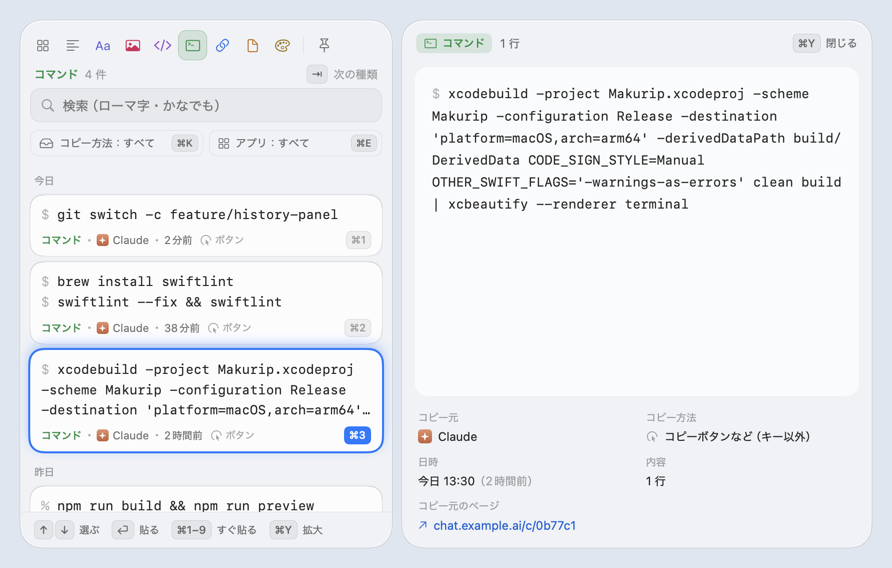
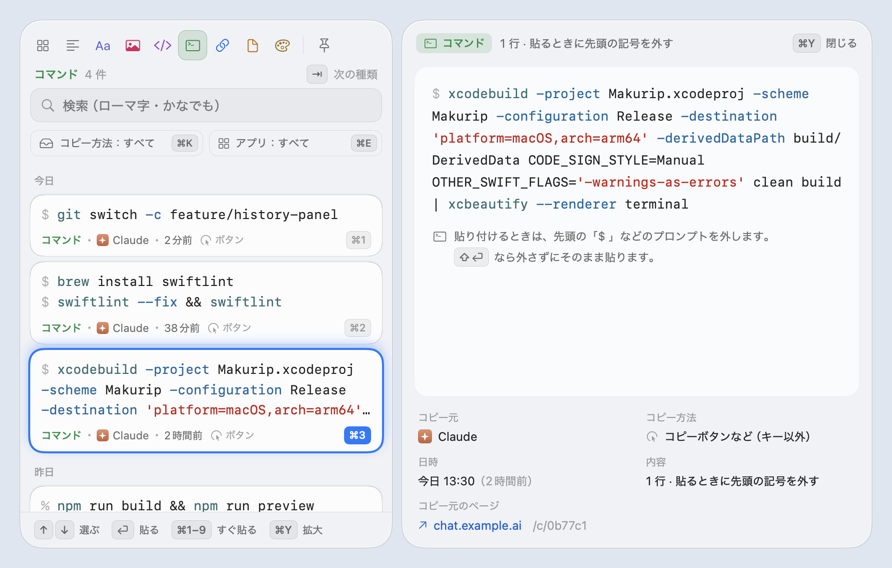
[ドキュメント] フェーズ3 の技術選定・判定の限界・公開型と、試作との比較画像・色付けの速さを記録 (#3)
色付けの方式（自前の字句解析・NSTextView）を Highlightr・tree-sitter・SwiftUI の Text と比べた理由、言語の判定と
プロンプトの外し方の限界、⇧↩ は外さないなどの決定を正本に書いた。比較画像は 1 倍に縮めた写し。

Claude-Session: https://claude.ai/code/session_01LrpCdpDCKF49u6YgNuTMUb

diff --git a/.agent/architecture.md b/.agent/architecture.md
@@ -12,7 +12,7 @@ Makurip（実行ファイル）── MakuripUI（一覧: 案 B のパネル）
 
 | ターゲット | 責務 | 依存先 |
 |---|---|---|
-| `MakuripCore` | モデル・判定（純粋関数）・ペーストボードの読み書き・監視・SQLite のストア・メタデータの書き出し・UI との約束（`HistoryPresenting` / `HistoryActions`）・日本語検索（`Search/`）・キーマップ（`Keymap/`）・パネルの位置（`Placement/`）・候補窓の流れと判断（`Candidate/`） | Foundation・AppKit（NSPasteboard だけ）・ApplicationServices（AX）・CoreGraphics（CGEvent の読み取り）・CryptoKit・libsqlite3 |
+| `MakuripCore` | モデル・判定（純粋関数）・ペーストボードの読み書き・監視・SQLite のストア・メタデータの書き出し・UI との約束（`HistoryPresenting` / `HistoryActions`）・日本語検索（`Search/`）・キーマップ（`Keymap/`）・パネルの位置（`Placement/`）・コードの言語と色付けの区間・プロンプト（`Syntax/`）・貼るときの中身（`Paste/`）・候補窓の流れと判断（`Candidate/`） | Foundation・AppKit（NSPasteboard だけ）・ApplicationServices（AX）・CoreGraphics（CGEvent の読み取り）・CryptoKit・libsqlite3 |
 | `MakuripUI` | 一覧（案 B のパネル。nonactivating な NSPanel + SwiftUI）・⌘Y のプレビュー（子ウインドウ）・候補窓（キーの焦点を取らない NSPanel）・中身の遅延読み込み。入口は `HistoryUIFactory.make(actions:)`・`CandidateUIFactory.make(actions:keymap:)` | MakuripCore |
 | `Makurip` | AppDelegate（`AppController`）・メニューバー・ホットキー（Carbon）・⌘C の監視・貼り付け（⌘V 送信）・候補窓の横取り（`KeyEventTap`）と本体側の実装（`CandidateBridge`）・起動引数・検証用の遠隔操作 | MakuripCore・MakuripUI・Carbon |
 | `MakuripDevTool` | 検証用 CLI（テストデータ・型の一覧・一般ペーストボードの退避と復元・pid 宛てのキー） | MakuripCore |
@@ -36,7 +36,8 @@ Makurip（実行ファイル）── MakuripUI（一覧: 案 B のパネル）
    パネルは nonactivating なので Makurip は前面にならず、元のアプリが前面のままキーだけを受け取る
 3. キーはパネルの窓のローカル監視 → `HistoryPanelModel.handle`（キーマップで操作を引く。日本語入力の変換中は横取りしない）
 4. Enter（⇧Enter・⌘Enter・⌘1〜9）→ UI が自分を閉じてから `HistoryActions.paste(itemID:mode:)`
-5. `ClipStore.snapshot` で全項目・全型を読み（プレーンテキストのときは文字の型だけ）、`PasteboardWriter.write` でペーストボードへ戻す
+5. `ClipStore.snapshot` で全項目・全型を読み、`PastePipeline.prepare`（純粋関数）で書き戻す中身を決めて `PasteboardWriter.write` でペーストボードへ戻す。
+   プレーンテキストのときは文字の型だけ（プロンプトは外さない）。コマンドは文字の型（UTF-8・UTF-16）だけ行頭のプロンプトを外し（`ShellPrompt`）、RTF・HTML などほかの型と並びは元のまま。保存した履歴は変えない
 6. 書いたあとの changeCount を `monitor.acknowledgeOwnWrite` に渡す（新しい履歴にしない）。`store.touch` で先頭へ移す
 7. `Paster` が `previousApp` を前面に戻し、その pid 宛てに ⌘V を送る（アクセシビリティの許可が要る）。「コピーだけ」は送らずにフォーカスだけ返す
 
@@ -50,6 +51,7 @@ Makurip（実行ファイル）── MakuripUI（一覧: 案 B のパネル）
 3. 窓（`CandidatePanelController`）は出す前に文字カーソルを AX で取り、カーソルの右に、選んだ行をカーソルの行にそろえて出す。
    位置の手がかりはそのセッションの間は固定し、選択が変わるたびに `PanelPlacement.frame(... .beside(rowOffset:))` で置き直す
 4. 仮に貼る（`.selectRange` / `.undo` のとき）: 貼る前のペーストボードを丸ごとメモリに控え、最新を書いて pid 宛てに ⌘V。
+   書く中身は一覧と同じく `PastePipeline.candidatePaste`（コマンドはプロンプトを外す。差し替えで選び直す長さも外した後の文字で数える）。
    AX で文字カーソルが進んだことを確かめ、貼った範囲を測る
 5. ↑↓（タップ → `handle` → `perform`）: 選択だけをすぐ変え、文書への反映は 1 つずつ順に行う（`drain`。連打しても最後の選択に追いつく）。
    差し替えは、貼った範囲を AX で選び直してその上に ⌘V（文字だけの中身で長さが合うとき）→ だめなら ⌘Z で 1 段戻して ⌘V。
@@ -68,7 +70,18 @@ Makurip（実行ファイル）── MakuripUI（一覧: 案 B のパネル）
 | `PanelController` | 窓（nonactivating な `KeyablePanel`）・キーのローカル監視・位置・⌘Y の子ウインドウ（`PeekPanel`）。メインメニューがないので検索欄の ⌘A/C/V/X/Z もここで送る |
 | `HistoryPanelModel` | 状態（絞り込み・選択・プレビュー・⌘E）と全操作。`handle(_:isComposing:)` がキーマップから操作を引く。単体テストはここを駆動する |
 | `HistoryPanelView` / `CardView` / `PeekView` | 試作（`~/dev/makurip-design/ui/shared/panel-b.*`・`base.css`）の寸法と色を写した SwiftUI。文字の行の高さは `CSSText` で CSS の line-height を再現 |
-| `ClipContentLoader` | サムネイル・全文・ファイル・色・リッチテキストを、見えたカードと選んだ 1 件だけ読む。画像の縮小はメインスレッドの外 |
+| `ClipContentLoader` | サムネイル・全文・ファイル・色・リッチテキストを、見えたカードと選んだ 1 件だけ読む。画像の縮小はメインスレッドの外。コードの言語・色付きのカード・プレビューの色付けの区間もここでキャッシュする |
+| `CodeStyler` / `CodeTextView` | コードとコマンドの色付け（フェーズ3）。カードと ⌘Y のコマンドは SwiftUI の Text（AttributedString）、⌘Y のコードは NSTextView（行番号は `LineNumberRuler`） |
+
+### コードの色付け（フェーズ3・#3）
+
+1. 言語: `ClipContentLoader.language(for:)` が一覧の平文（先頭 1000 文字）を `CodeLanguageDetector.detect` に渡し、項目ごとに 1 回だけ決める。
+   カード・⌘Y のプレビュー・候補窓の行（「Swift 17行」）が同じ言語を使う。コマンドはいつもシェル
+2. 区間: `SyntaxHighlighter.tokens`（純粋関数・自前の字句解析）が UTF-16 の区間と種類（キーワード・文字列・コメント・数・型・関数・属性・フラグ）を返す
+3. カード（コード 5 行・コマンド 3 行）: `CodeStyler` が NSMutableAttributedString に SwiftUI の属性の鍵で色を付け、一度に AttributedString へ変える。配色ごとにキャッシュ
+4. ⌘Y のコード: 区間を配色によらずキャッシュし、`CodeTextView`（NSTextView）に NSColor で塗って渡す。8000 文字（UTF-16）までその場で、
+   それより長いものは区間を裏のスレッドで作り、できるまでは色なしで出す。プレビューは先頭 2 万文字まで（`previewCharacterLimit`）
+5. コマンド: `ShellPrompt.analyze` で外すプロンプトの範囲を薄くし、プロンプトのある文字列ではコマンドの行（プロンプトの行と続きの行）だけを色付けする（出力の行は色なし）
 
 - 履歴は開くたびに全件のメタデータを読む（5000 件で 23 ms）。検索用の正規化（`HistoryFilter.haystack`）は開いた後に裏で作り、内容のハッシュが同じあいだ使い回す
 - 試作との見比べは `design/ui-compare/`（`make ui-compare`）
@@ -93,7 +106,7 @@ Makurip（実行ファイル）── MakuripUI（一覧: 案 B のパネル）
 - ~~フェーズ2（絞り込み）: `kind`・`copyMethod`・`source` は列として持っている。日本語検索の正規化は `preview_text` を元に別の列か索引を足す（スキーマ版を上げる）~~
 - フェーズ2（済）: 絞り込みと日本語検索はメモリの中で行う（DB の列は足していない。スキーマ版 1 のまま）。全件を読んでも 5000 件で 23 ms、温まった後の検索が 15 ms で足りるため。1 万件を大きく超える上限にするなら、正規化した列と FTS を足す
 - フェーズ2.5（候補窓・済）: 位置は `PanelPlacement.frame(... side: .beside(rowOffset:))`、手がかりは `InsertionPointLocator`。DB は変えていない（仮に貼っている間は `touch` せず、確定したときだけ先頭へ移す。回している間の並びは始めた時点のものを固定して持つ）
-- フェーズ3（プレビュー）: `ClipStore.snapshot(id:)` で全データ、`representationInfos(id:)` で型の一覧が取れる
+- フェーズ3（プレビュー・済）: DB は変えていない。言語は表示のときに一覧の平文から判定してメモリにキャッシュする（列を足すと判定を直すたびに作り直しが要るため）。コピー元のページは取り込み時の `sourceURL` をそのまま使う
 - フェーズ4（設定）: `Limits` と `HotKey` を UserDefaults か設定ファイルに保存し、`ClipStore(directory:limits:)` と `HotKeyCenter.register` に渡す
 - フェーズ5（秘密）: 判定結果を `ClipStore.setFlags(_:id:)` で `secretLikely` にする。判定は形式だけで行い、中身を外へ出さない
 - フェーズ6（AI の口）: 追加は `CapturedClip` を組み立てて `ClipStore.save`（`addedByAI` の印）。AI へは `MetadataDump` 相当の形式情報だけを返す
@@ -127,10 +140,21 @@ Makurip（実行ファイル）── MakuripUI（一覧: 案 B のパネル）
 | 変換中の判定 | AX の `AXTextInputMarkedRange`（WebKit は `AXTextInputMarkedTextMarkerRange`）→ 入力ソース（TIS）| 入力ソースだけ（日本語入力のかなモードのまま英数を打つ人では、いつも「変換中」になって候補窓が使えない）、日本語入力の候補窓が画面にあるか（未確定の文字はあっても候補窓が出ていないことが多い） |
 | 候補窓の窓 | キーの焦点を取らない nonactivating な NSPanel（`.popUpMenu`） | 一覧（案 B）の窓を使い回す（あちらは検索欄に打つので焦点を取る。焦点の扱いが逆なので分けた） |
 
+## 技術選定（フェーズ3・比べた代替）
+
+| 何を | 採用 | 比べた代替と、採らなかった理由 |
+|---|---|---|
+| コードの色付け | 自前の簡易な字句解析（`SyntaxHighlighter`。C 系は設定付きの 1 つ、シェル・HTML/XML・CSS・JSON・YAML は個別）| Highlightr（highlight.js を JavaScriptCore で動かす。外部ライブラリが 1 つ増え、起動に JS の実行環境が要り、1 回の色付けが数十 ms かかる。配色は CSS の書き換えになる）、tree-sitter（SwiftTreeSitter + 言語ごとの文法パッケージ。正確だが依存と C のソースが言語の数だけ増え、ビルドと保守が重い）。クリップボードの断片は不完全なコードも多く、構文木より字句で十分。依存 0 のまま、試作の 9 色にそのまま対応でき、1 回なめるだけで 500 行 5 ms（デバッグビルド） |
+| 言語の判定 | 形で決まるもの（コードブロックの言語名・shebang・JSON・タグ・YAML）→ 言語ごとの手がかり（正規表現と重み）の点数 | 拡張子（クリップボードにはない）、機械学習の分類器（モデルが要る・説明しにくい）。点数なら紛らわしい例をテストで固定して調整できる |
+| ⌘Y のコードの描画 | NSTextView（TextKit）+ NSRulerView の行番号 | SwiftUI の Text（色の区間が多いと組むのが極端に遅い。色付きの 600 行で 2.5 秒、1000 行で 17 秒。区間が少ないカードとコマンドはこちら）、1 行ずつの Text を LazyVStack に並べる（速いが、行をまたいで選べず、横に送ると行番号も一緒に動く）。NSTextView なら 3000 行でもパネルとプレビューの描画が約 120 ms で一定 |
+| プロンプトを外す場所 | 貼るときに書き戻す中身だけ（`PastePipeline`）。保存した履歴と RTF・HTML は変えない | 取り込みのときに外して保存する（元に戻せない・⇧↩ で元のまま貼れない）、全型を書き換える（RTF の制御語や HTML のタグを壊しうる） |
+
 ## 変更時の波及
 
 - DB スキーマを変える: `ClipStore.migrate()` に版を足し、`.agent/api.md` の「DB スキーマ」と `MetadataDump` を同時に直す
 - 種類の判定を変える: `KindClassifierTests` に入力例を足し、`.agent/conventions.md` の「判定の限界」を見直す
+- 言語の判定・色付けを変える: `CodeLanguageDetectorTests`（各言語の代表例と紛らわしい組）・`SyntaxHighlighterTests`（区間が重ならない・サロゲートペアを割らない）に足し、`make ui-compare` で試作と並べる。言語を足すときは `CodeLanguage`（名前・コードブロックの別名）と `SyntaxHighlighter` の設定の両方
+- プロンプトの外し方を変える: `ShellPromptTests`（外さない例を必ず添える）と `PastePipelineTests`（名前付きペーストボードで書いて読み直す）。候補窓の流れは `CandidateCoordinatorTests`
 - UI を差し替える: `Sources/MakuripUI/` を置き換え、`HistoryUIFactory.make(actions:)` を同じ名前で用意する。E2E（`scripts/e2e/paste.sh`）は `debugState` の `rowCount` / `query` と `-MakuripPanelScreen` を使っているので、新しい UI でも同じ鍵を返すか、スクリプトを直す（案 B のパネルは同じ鍵を返す）
 - キーを足す・変える: `KeyAction`（ID・既定のキー・説明文）に足す。`KeymapTests` の「既定のキーに重なりがない」が守る。画面のヒントはキーマップから引くので直さなくてよい。候補窓のキー（範囲 `.candidate`）は候補窓のキーどうしだけで重なりを見る
 - 候補窓の閉じ方・横取りを変える: 閉じる経路を足したら `CandidateInterceptLifetimeTests.Path` に足す（全経路でタップ・窓・時計が残らないことを確かめる）。差し替えを変えたら `CandidateCoordinatorTests`（偽の入力欄で文書が元に戻るか）

diff --git a/design/ui-compare/README.md b/design/ui-compare/README.md
@@ -2,6 +2,7 @@
 
 フェーズ2（#2）で、HTML の試作（`~/dev/makurip-design/ui/b.html`。正本）と SwiftUI のパネルを同じ状態で描き、
 横に並べて確かめた記録。フェーズ2.5（#8）で候補窓（`candidate.html`）も足した（後半の「候補窓」）。
+フェーズ3（#3）でコードの色付け・コマンドのプロンプト・コピー元のページを足した（「コードの色付け」）。
 画面ロック中でも作れる（試作はヘッドレス Chrome、SwiftUI はオフスクリーン描画）。
 
 ## 作り直し方
@@ -34,10 +35,8 @@ make ui-compare            # = design/ui-compare/shoot.sh。出力は .ui-compar
 
 ### 意図して変えたところ・範囲外のもの
 
-- **コードの色付けがない**: フェーズ3（#3）。いまは等幅で出すだけ。コマンドの先頭の「$ 」を薄くするのは試作どおり
 - **定型文のタブ・「⌘S 定型文を見る」・設定の歯車がない**: 定型文は #7、設定画面は #4。押しても何も起きない入口は置かない
 - **カードのコピー方法が「⌘C」でなく「キー」**: 取り込みでは ⌘C と ⌘X を見分けていない（詳細は「キー操作（⌘C / ⌘X）」）
-- **プレビューの見出しに言語名（Swift など）がない**: 言語の判定はフェーズ3
 - **⌘E のアプリ選択をパネルの内側に収めた**: 試作はパネルの右へはみ出すが、窓の外に出すには別の窓とフォーカスの扱いが要るため
 - **等幅の書体**: 試作の CSS は SF Mono を指定しているが、Chrome は名前で見つけられず Menlo で描いている。SwiftUI は指定どおり SF Mono（字幅が 2.6% 広い）
 - **アイコン**: 試作の線画を SF Symbols に置き換えた（リッチテキストの `textformat` は日本語の環境で「あぁ」になるので英語の字形に固定）
@@ -81,7 +80,7 @@ make ui-compare            # = design/ui-compare/shoot.sh。出力は .ui-compar
 - **位置**: カーソルの右（入らなければ左）。選んでいる行の中心をカーソルの行の中心にそろえる。画面の端では押し戻す（そのときだけ行がずれる）
 - **注記**: 確定まで貼らないとき（ターミナル・チャット・変換中・入力欄を読めない・差し替えが効かないアプリ）に、
   その理由を 1 行で出す。試作の秘密の注記（`.cd-note`）と同じ形で、色は秘密の赤でなく知らせの青
-- **言語名がない**（試作は「Python 7行」「Swift 17行」、こちらは「コード 7行」）: 言語の判定はフェーズ3（#3）
+- ~~**言語名がない**（試作は「Python 7行」「Swift 17行」、こちらは「コード 7行」）~~: #3 で言語名を出すようにした（`compare-candidate-long.png` の「Python 7行」）
 - **色の名前がない**（試作は「#0A84FF アクセント（青）」、こちらは HEX だけ）: 履歴に色の名前を持っていない
 - **画像の名前**: 履歴に画像の名前がないので、コピー元のアプリから「スクリーンショットの画像」「Safari の画像」と呼ぶ
 - **文字数**: 試作はコードポイントで数え、こちらは見た目の 1 文字（書記素）で数える。半角の「ﾃﾞ」は試作で 2 字、こちらで 1 字。
@@ -92,6 +91,52 @@ make ui-compare            # = design/ui-compare/shoot.sh。出力は .ui-compar
 ### オフスクリーン描画では分からないこと（実機で確かめる。#9）
 
 - 本物のアプリでの位置（文字カーソルの横に出るか）・素材の見え方・窓の影・クリックの当たり方
+
+## コードの色付け（#3・2026-10-31）
+
+試作の `Mk.syntax`・`Mk.cmdHTML`（`core.js`）と配色（`base.css` の `--s-*`）を、Swift の字句解析（`SyntaxHighlighter`）と
+`CodeStyler` で写した。試作側は `b-states.html` に `state=custom&kind=…&move=…&look=1`（種類で絞って n 件目を ⌘Y）を足して撮る。
+
+| 状態 | 画像 |
+|---|---|
+| コードのカードだけ（4 言語） | `images/compare-code-cards-light.png`・`images/compare-code-cards-dark.png` |
+| ⌘Y のコード: Swift（ライト）・TypeScript（ダーク）・Python（ライト・コピー元のページ付き）・シェル（ダーク） | `images/compare-peek-light.png`・`images/compare-peek-code-ts-dark.png`・`images/compare-peek-code-py-light.png`・`images/compare-peek-code-sh-dark.png` |
+| ⌘Y のコマンド（プロンプトを薄く・外す注記・コピー元のページ） | `images/compare-peek-cmd-light.png`・`images/compare-peek-cmd-dark.png` |
+| 候補窓の言語名（「Python 7行」） | `images/compare-candidate-long.png` |
+| 言語不明・1 文字・全角と絵文字・とても長い 1 行・3000 行・PS1 と出力と続き行・コピー元のページ付きの文章・コードの中の検索（試作に無い） | `images/edge-code-cards.png`・`images/edge-peek-code-unknown.png`・`images/edge-peek-code-one-char.png`・`images/edge-peek-code-cjk.png`・`images/edge-peek-code-long-line.png`・`images/edge-peek-code-3000-lines.png`・`images/edge-peek-cmd-ps1.png`・`images/edge-peek-text-source.png`・`images/edge-search-in-code.png` |
+
+### 見比べた結果
+
+キーワード（太字）・型・文字列・コメント・数・関数・属性・シェルのフラグの色、行番号の位置・線、行の高さ（12.5px × 1.65）、
+カードの 5 行の切り方に大きなずれはない。ライトとダークとも試作の値どおり。見比べで次を直した。
+
+- **端末のコピーの出力の行**: 出力の行（`Build complete!` など）までコマンドとして色が付いていた。プロンプトのある文字列では、コマンドの行（プロンプトの行と続きの行）だけを色付けするようにした（`edge-peek-cmd-ps1.png`）
+- **一覧の下の方のカードを選んだ状態**: 選んだカードが見える位置まで一覧が送られるよう、描いた後に選ぶようにした（比べ方の直し）
+- **3000 行の見出し**: プレビュー用に切った後の行数（603 行）を出していたのを、全文の行数にした。切ったことの注記も出す
+
+### 意図して変えたところ・範囲外のもの
+
+- **コピー元のページの書き方**: 試作は「題名　ドメイン」。題名は取り込んでいない（Chrome 系・Safari の型に題名が載らない）ので、「ホスト　パス」にした。クエリ（`?` の後ろ）はトークンが入りうるので出さない
+- **プロンプトの注記の文言**: 試作の「（設定で変更できます）」は設定画面（#4）がまだないので出さず、外さずに貼るキー（⇧↩。キーマップから引く）を書いた
+- **⌘Y のコードは NSTextView**: SwiftUI の Text は色の区間が多いと極端に遅い（色付きの 600 行で 2.5 秒）。行番号は横に送っても動かず、縦は本文と一緒に動く（試作の `.gutter` と同じ）。行をまたいで選べる
+- **言語が決まらないコード**: 試作は TypeScript として色を付けるが、こちらは文字列・数・`//` のコメントだけ（違う言語の色を付けないため）
+- **右端で切れる長い行**: 等幅の字幅の差（SF Mono と Menlo）で、試作より少し手前で切れる。横に送れば読める
+
+### 色付けの速さ（`images/highlight-speed.txt`）
+
+架空の Swift のコード（デバッグビルド・ほかの仕事でマシンが混んでいる状態。描画は 3 回の中央値）。プレビューは先頭 2 万文字まで。
+
+| 行数 | 文字数 | 区間 | 言語の判定 | 字句解析 | 色付きの文字列 | パネルとプレビューを描き直す |
+|---|---|---|---|---|---|---|
+| 1（基準） | 18 | 0 | 2.9 ms | 0.6 ms | 3.3 ms | 113 ms |
+| 100 | 3,319 | 340 | 2.3 ms | 1.4 ms | 0.4 ms | 123 ms |
+| 500 | 16,599 | 1,700 | 2.3 ms | 4.9 ms | 1.3 ms | 122 ms |
+| 1000 | 33,199 | 3,400 | 2.3 ms | 9.5 ms | 2.1 ms | 120 ms |
+| 3000 | 99,599 | 10,200 | 2.2 ms | 30 ms | 5.2 ms | 119 ms |
+
+描き直しは 1 行のコード（基準）とほぼ同じで、色付けの分は長さによらず 10 ms 前後。8000 文字（UTF-16）を超えるコードの区間は
+裏のスレッドで作り、できるまでは色なしで出す。一覧を開く速さは、変更前（`origin/main`）と交互に 3 回ずつ測って差がなかった
+（1000 件の最初の描画が 185〜191 ms と 188〜199 ms、5000 件が 92〜114 ms と 93〜101 ms。下の表より遅いのはマシンが混んでいたため）。
 
 ## 開く速さ（`images/open-speed.txt`・`images/store-speed.txt`）
 

diff --git a/.agent/conventions.md b/.agent/conventions.md
@@ -44,7 +44,9 @@ UI に出す文言は日本語。絵文字は使わない。
 
 - **短い断片**: 「`x = 1`」のような 1 行は、手がかりが 2 つ以上ないとコードにならない。逆に「`a == b`」を含む文章はコードになりうる
 - **コードを含む Markdown**: 途中に ``` がある文書はテキスト扱い（AI チャットの回答をまるごとコピーした場合など）。全体が ``` で囲まれていればコード
-- **コマンド**: 先頭の語が既知の CLI の一覧（`TextHeuristics.knownCommands`）にあるか、行頭が `$ ` `% ` `❯ ` のときだけ。一覧にない自作のツールは「テキスト」になる。プロンプトの `# `（root）は Markdown の見出しと区別できないので見ない
+- **コマンド**: 先頭の語が既知の CLI の一覧（`TextHeuristics.knownCommands`）にあるか、1 行目がプロンプト（`$ ` `% ` `❯ ` `➜ `・`user@host:~$ ` などの PS1）で始まるときだけ。一覧にない自作のツールは「テキスト」になる。
+  root の `# ` は、**全部の行が「# 既知のコマンド …」のときだけ**コマンドにする（「# 見出し」「# コメント」と区別するため）。「# make targets」のように見出しの頭が小文字の既知のコマンドだと、コマンドになってしまう（Markdown の見出しはふつう大文字か日本語で始まるので許した）
+- **SQL・YAML・HTML（フェーズ3）**: SQL は頭のキーワードが大文字か、行末が「;」のときだけ（「Select the best option」のような英文を外す）。YAML は `key:` の行が 2 つ以上あり、入れ子の `key:`・`- ` の並び・`---` のどれかがあるもの（「Note: …」の並びは外れる）。HTML・XML はタグで始まりタグで閉じ、閉じタグがあるもの
 - **リッチテキスト**: RTF・HTML の型が載っているかで決める。VS Code やターミナルは色付きの RTF/HTML も載せるが、中身がコード・コマンドならそちらを優先する。整形のない文章でも RTF を載せるアプリ（Pages 等）はリッチテキストになる
 - **画像と文章が両方あるとき**: Office は文章にプレビュー画像（PNG/PDF）を添えるので、文章があればリッチテキスト。平文が URL かパスだけなら画像（ブラウザの「画像をコピー」）
 - **PDF だけ**: 画像として扱う（種類に PDF がないため）
@@ -136,9 +138,37 @@ UI に出す文言は日本語。絵文字は使わない。
 - 何も押さないまま 10 秒（`candIdleTimeout`）で確定して閉じる（仮に貼ったものは残る）
 - 候補窓の数（行数・文字数）は一覧用の平文（先頭 1000 文字）から数える。切れていれば「+」を付ける
 
+### コードの言語（`CodeLanguageDetector`）
+
+- 見るのは一覧の平文（先頭 1000 文字）だけ。そこに手がかりがなく後ろにだけある長いコードは、言語が決まらない（色付けは最小限）
+- 手がかりが少ない断片（1 行・数語）は決めない（`minimumScore` 4 点）。minify された JavaScript のように空白のない 1 行も決まらないことが多い
+- 紛らわしい組は固有の手がかりで分ける: TypeScript は型の注釈（`: string`・`interface`）、C++ は `std::`・`#include <iostream>`、Kotlin は `fun`・`val`、Go は `package`・`:=`。どれもないと JavaScript・C・Swift 寄りになる
+- Markdown のコードブロック（```lang）の言語名と shebang がいちばん強い。知らない言語名は「言語不明」
+- 判定できる言語: Swift・JavaScript・TypeScript・Python・シェル・JSON・HTML・XML・CSS・Go・Rust・C・C++・Java・Kotlin・Ruby・SQL・YAML
+
+### 色付け（`SyntaxHighlighter`）
+
+- 字句だけを見る簡易なもの。正規表現のリテラル・文字列の中の式（`${…}`・`\(…)`）・JSX のタグは見分けない（文字列の色・ふつうの字になる）
+- 「大文字で始まる名前は型」「`(` が続くか `.` の後ろの名前は関数」は試作と同じ決まり。定数（`MAX_SIZE`）も型の色になる
+- 閉じない文字列は行末で、閉じないコメントは最後で止める（`"` や `/*` が 1 つあっても全体が文字列にならない。複数行を許すのは ``` ` ``` と 3 つ重ねの引用符だけ）
+- シェルでは、プロンプトのある文字列の出力の行（プロンプトも続きでもない行）に色を付けない
+- 言語不明のコードは文字列（`"` と ``` ` ```）・数・`//` と `/* */` のコメントだけに色を付ける
+
+### プロンプトを外して貼る（`ShellPrompt` / `PastePipeline`）
+
+壊さないことを優先し、迷う行は外さない。
+
+- 外す: 行頭の `$ ` `% ` `❯ ` `➜ `、PS1（`user@host:~$ `・`[user@host dir]$ `・`user@host dir % `・`bash-3.2$ `・前に `(venv) `、oh-my-zsh の `➜  dir git:(main) ✗ `）、続き行の `> `（zsh の `dquote> ` なども。前の行が `\`・`|`・`&&` で終わるか、引用符・ヒアドキュメントが閉じていないときだけ）、全部の行が「# 既知のコマンド」のときの root の `# `
+- 外さない: 出力の行（`$` や `%` で始まっていても、プロンプトの後ろに空白がなければ外さない。`$HOME`・`$(…)`・jQuery の `$(…)`）、行頭に空白のある行（字下げした `  $ ls` は外さない）、ほかにプロンプトの行があるときの `# `、`#!`、`➜  ~` のようにどこまでがプロンプトか分からない形
+- 外した文字は文字の型（UTF-8・UTF-16）だけ。RTF・HTML（ターミナルが色付きで載せるもの）は元のまま書き戻すので、RTF・HTML を優先して読むアプリ（テキストエディットのリッチテキスト・メモなど）に貼ると「$ 」が残る。ターミナルとコードエディタは文字の型を読む
+- 出力の行の頭が `$ ` のとき（`$ 5.00` のような金額）は、プロンプトと区別できず外れる
+- ⇧↩（プレーンテキストで貼る）は外さない（元のまま貼る逃げ道。試作どおり）。候補窓から貼るときは外す（一覧から ↩ で貼るのと同じ）
+
 ### 一覧の表示
 
 - カードのコピー方法は「キー」とだけ出す（⌘C と ⌘X を見分けて記録していない）
 - ⌘⌫（履歴から削除）は、検索欄の「行頭まで消す」と同じキー。試作どおりにしたが、検索欄の編集を優先したくなったらフェーズ4で ⌥⌫ などに替える
 - 検索欄で ⌘C・⌘X した文字も履歴に入る。パネルは元のアプリを前面のままにするので、コピー元は前面のアプリとして記録される
+- コピー元のページは、題名を取り込んでいないので「ホスト　パス」で出す（試作は「題名　ドメイン」）。クエリ（`?` の後ろ）はトークンなどが入りうるので出さない。取れない項目（Firefox・ネイティブのアプリ・コピーボタン）では行ごと出さない
+- ⌘Y のプレビューは先頭 2 万文字まで。見出しの行数・文字数は全文で数える（切ったときは「長いので先頭の … 文字だけを表示しています」を出す）
 

diff --git a/.agent/api.md b/.agent/api.md
@@ -69,7 +69,7 @@
 @MainActor public protocol HistoryActions: AnyObject {
     func historyItems(limit: Int) -> [ClipItem]
     func paste(itemID: UUID)                      // UI は先に自分を閉じてから呼ぶ
-    func paste(itemID: UUID, mode: PasteMode)     // .normal / .plainText（文字の型だけ）/ .copyOnly（⌘V を送らない）
+    func paste(itemID: UUID, mode: PasteMode)     // .normal / .plainText（文字の型だけ。プロンプトは外さない）/ .copyOnly（⌘V を送らない）。中身は PastePipeline.prepare
     func historyDidClose()                        // 貼らずに閉じたとき（元のアプリへフォーカスを返す）
     func setPinned(_ pinned: Bool, itemID: UUID)
     func delete(itemID: UUID)
@@ -150,6 +150,24 @@ ID は試作の `Mk.PREFS` と同じ。`defaults write com.takushio2525.makurip 
 | `SearchText.romajiToKana(_:)` / `parse(_:)` | ローマ字の読み / 検索欄の文字列を語（AND）と候補（元の綴り・読み）に分ける |
 | `SearchQuery` | `matches(normalized:)`（UTF-8 のバイト列で探す）・`highlightRanges(in:)`（元の文字列での一致範囲） |
 | `HistoryFilter` | 種類（nil はすべて）・`CopyMethodFilter`・アプリ（バンドル ID か名前）・ピン留め・検索語。`apply`・`kindCounts`・`appOptions` |
+
+## コードの言語・色付け・プロンプト（`Sources/MakuripCore/Syntax/`・`Paste/`・フェーズ3）
+
+どれも純粋関数。位置は UTF-16 で数える（`NSRange` にそのまま使える）。
+
+| 型 | 役割 |
+|---|---|
+| `CodeLanguage` | 18 の言語（`displayName` は画面に出す名前。シェルだけ「シェル」）。`init?(fenceTag:)` で ```swift などの別名から引く |
+| `CodeLanguageDetector.detect(_:)` | 言語（決まらなければ nil）。コードブロックの言語名 → shebang → JSON・XML・HTML・YAML の形 → 言語ごとの手がかりの点数 |
+| `SyntaxHighlighter.tokens(in:language:)` | 色を付ける区間 `[SyntaxToken]`（`location`・`length`・`kind`）。重ならず、順に並ぶ。`kind` は `keyword` / `string` / `comment` / `number` / `type` / `function` / `attribute` / `flag`（試作の `.s-*`）。言語が nil なら文字列・数・コメントだけ |
+| `ShellPrompt.analyze(_:)` | `Analysis`: 外すプロンプトの範囲（`promptRanges`）・コマンドの行（`commandLineRanges`）・外した文字列（`stripped`） |
+| `ShellPrompt.explicitPromptLength(_:)` | 1 行の頭のはっきりしたプロンプトの長さ（`$ `・PS1 など。root の `# ` と続き行の `> ` は文脈で決めるので見ない）。種類の判定でも使う |
+| `PastePipeline.prepare(_:kind:mode:)` | 貼るときにペーストボードへ書く中身。`.plainText` は文字の型だけ、`.normal`・`.copyOnly` はコマンドなら文字の型だけプロンプトを外す（UTF-16 は BOM と並びを保つ） |
+| `PastePipeline.candidatePaste(_:kind:)` | 候補窓から貼る中身と、入力欄に増える文字の長さ（`PastedContent`。外した後の文字で数える） |
+
+UI 側（`Sources/MakuripUI/`）: `ClipContentLoader.language(for:)`（一覧の平文から 1 回だけ判定してキャッシュ）・`codeCardLines`・`commandCard`・`commandPreview`・
+`cachedCodeTokens` / `codeTokens`（長いものは裏で作る）・`CodeStyler`（AttributedString / NSAttributedString にする）・`CodeTextView`（⌘Y のコード）・
+`DisplayText.sourcePage(_:)`（コピー元のページの「ホスト・パス」。http・https でホストがあるときだけ・クエリは出さない）。
 
 ## パネルの位置（`Sources/MakuripCore/Placement/`）
 

diff --git a/.agent/roadmap.md b/.agent/roadmap.md
@@ -39,13 +39,16 @@
 - [x] ⌃⌘V の 3 つの動き（`hotkeyMode`: すぐ貼るだけ／すぐ貼って候補窓／一覧を開く）と ⌃⌥⌘V（一覧を開く）。選ぶ画面は #4
 - [x] キーマップに `openList`・`candUp`・`candDown`・`candCommit`・`candCancel`・`candExpand`
 - [ ] 実機確認（#9 に追記）: 本物のアプリでの仮貼りと差し替え・横取り・位置・変換中・クリック
-- 試作との差は `design/ui-compare/README.md` の「候補窓」。言語名（「Swift 17行」）は #3 のあとで足す
+- 試作との差は `design/ui-compare/README.md` の「候補窓」。言語名（「Swift 17行」）は #3 で足した
 
 ## フェーズ3: 開発向けのプレビュー（#3）
 
-- 画像・コードの大きなプレビュー、コードの色付け
-- コマンドの先頭の「$ 」を外して貼る
-- 取れる場合はコピー元のページ（`sourceURL`）を出す
+- [x] コードの言語の判定（18 言語・`CodeLanguageDetector`）と色付け（自前の字句解析 `SyntaxHighlighter`。配色は試作の base.css）。カード・⌘Y のプレビュー・候補窓の行に言語名（「Swift 17行」）
+- [x] ⌘Y のコードは NSTextView と行番号（長くても描画が一定）。長いコードの色付けは裏で作ってキャッシュする
+- [x] コマンドの先頭の「$ 」・PS1・続き行の「> 」などを外して貼る（一覧・候補窓とも。文字の型だけ。⇧↩ は外さない）。プレビューではプロンプトを薄く、出力の行は色なし
+- [x] 取れる場合はコピー元のページ（`sourceURL`）を「ホスト　パス」で出す（⌘O で開く）
+- [x] 種類の判定: PS1・root の「# 」のコマンド、SQL・YAML・HTML のコード
+- [ ] 実機確認（#9 に追記）: 本物のターミナル・エディタに貼ってプロンプトが外れること（RTF を優先するアプリでは残る）、⌘Y のコードの選択とスクロール
 
 ## フェーズ4: 設定スキーマ・設定画面・CLI での設定・全操作のキー割り当て（#4）
 

diff --git a/.agent/requirements.md b/.agent/requirements.md
@@ -133,6 +133,15 @@ UI の HTML 試作とアイコンは、別の worker が `~/dev/makurip-design/`
   窓は動かず一覧が流れ、選んだ行がカーソルの行にとどまる
 - 仮に貼らない理由（確定まで貼らないアプリ・変換中など）を、窓の下に 1 行の注記で出す（試作の秘密の注記と同じ形）
 
+## フェーズ3 で決めた実装上の方針（worker 判断・2026-10-31）
+
+理由と比べた代替の全文は `.agent/architecture.md` の「技術選定（フェーズ3）」節、判定の限界は `.agent/conventions.md`。
+
+- 色付けは自前の簡易な字句解析（外部ライブラリは 0 のまま）。言語は一覧の平文から判定し、DB には持たない
+- プロンプトは貼るときにだけ外す（保存した履歴は変えない）。外すのは文字の型だけで、RTF・HTML は元のまま。迷う行は外さない
+- ⇧↩（プレーンテキストで貼る）は外さない（試作どおり。元のまま貼る逃げ道）。候補窓から貼るときは外す（一覧の ↩ と同じ）
+- コピー元のページは題名を取り込んでいないので「ホスト　パス」で出す。クエリは出さない
+
 ## プライバシーと安全（全フェーズ共通・最重要）
 
 - 実際のコピー内容・実履歴の中身を、ログ・コミット・Issue・AI への出力に出さない
